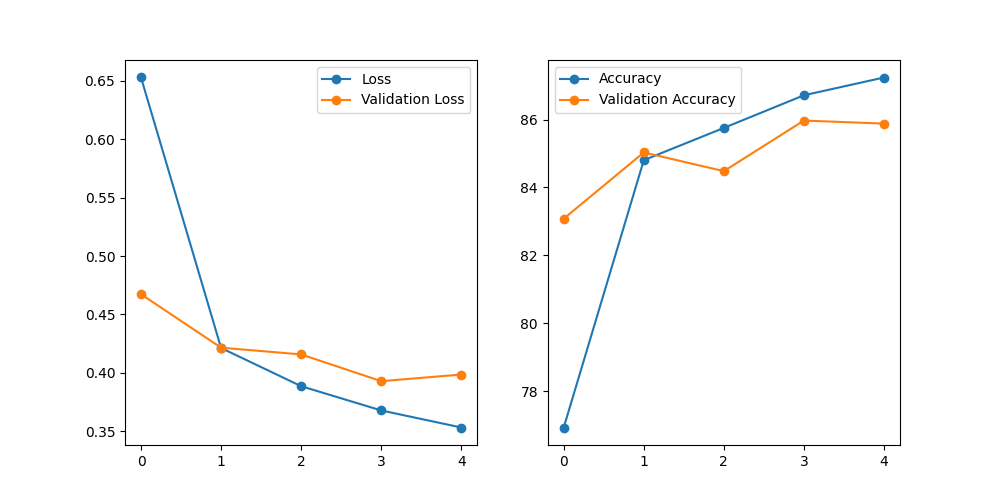
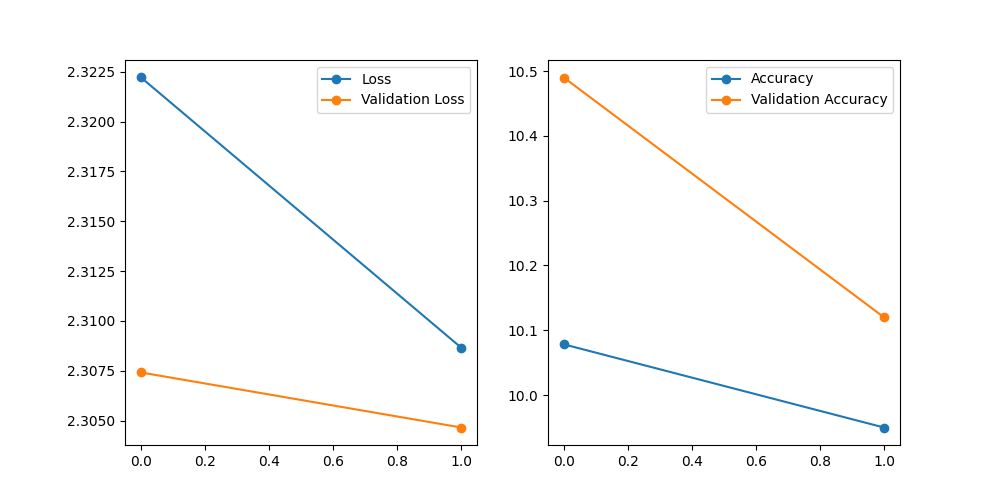
Data Selector
Change dataset [MNIST, FashionMNIST, CIFAR10]

diff --git a/templates/form.html b/templates/form.html
@@ -7,10 +7,17 @@
 <body>
 <form method="post">
     <h4>Model Name:
-        <input type="string" name="model_name" value="fashionMNIST"/><br>
+        <input type="string" name="model_name" value="FastAPI_Torch"/><br>
+    </h4>
+    <h4>DataSet:
+        <select name="dataset_name" id="Data">
+            <option value="MNIST">MNIST</option>
+            <option value="FashionMNIST">FashionMNIST</option>
+            <option value="CIFAR10">CIFAR10</option>
+        </select><br>
     </h4>
     <h4>Optimizer:
-        <select name="Optimizer" id="cars">
+        <select name="Optimizer" id="Opt">
             <option value="Adam">Adam</option>
             <option value="SGD">SGD</option>
         </select><br>

diff --git a/train_utils.py b/train_utils.py
@@ -30,7 +30,12 @@ def train(epoch, n_epochs, model, dl, loss_func, device, optimizer, len_ds: int)
 
     tq_batch = tqdm(dl, total=len(dl))
     for images, labels in tq_batch:
-        images = images.reshape(images.shape[0], 1, 28, 28).to(device)
+        if len(images.shape) == 3:  # (None, x, x)
+            images = images.reshape(
+                images.shape[0], 1, images.shape[1], images.shape[2]
+            ).to(device)
+        else:  # (None, 3, x, x)
+            images = images.to(device)
         labels = labels.to(device)
 
         optimizer.zero_grad()
@@ -45,8 +50,8 @@ def train(epoch, n_epochs, model, dl, loss_func, device, optimizer, len_ds: int)
         epoch_loss += loss.item()
         epochs_acc += torch.sum(preds == labels).item()
 
-        tq_batch.set_description(f'Epoch [{epoch + 1}/{n_epochs}]')
-        tq_batch.set_postfix_str('loss = {:.4f}'.format(loss.item()))
+        tq_batch.set_description(f"Epoch [{epoch + 1}/{n_epochs}]")
+        tq_batch.set_postfix_str("loss = {:.4f}".format(loss.item()))
 
     epoch_loss = epoch_loss / len(dl)
     epochs_acc = epochs_acc / len_ds
@@ -72,7 +77,12 @@ def evaluate(model, dl, loss_func, device, len_val_ds: int):
     epochs_acc = 0
     tq_batch = tqdm(dl, total=len(dl), leave=False)
     for images, labels in tq_batch:
-        images = images.reshape(images.shape[0], 1, 28, 28).to(device)
+        if len(images.shape) == 3:  # (None, x, x)
+            images = images.reshape(
+                images.shape[0], 1, images.shape[1], images.shape[2]
+            ).to(device)
+        else:  # (None, 3, x, x)
+            images = images.to(device)
         labels = labels.to(device)
 
         outputs = model(images)
@@ -81,7 +91,7 @@ def evaluate(model, dl, loss_func, device, len_val_ds: int):
 
         epoch_loss += loss.item()
         epochs_acc += torch.sum(preds == labels).item()
-        tq_batch.set_description(f'Evaluate Model')
+        tq_batch.set_description(f"Evaluate Model")
 
     epoch_loss = epoch_loss / len(dl)
     epochs_acc = epochs_acc / len_val_ds
@@ -89,7 +99,17 @@ def evaluate(model, dl, loss_func, device, len_val_ds: int):
     return epoch_loss, epochs_acc
 
 
-def fit(n_epochs, model, train_dataloader, ds, valid_dataloader, val_ds, loss_func, device, optimizer):
+def fit(
+    n_epochs,
+    model,
+    train_dataloader,
+    ds,
+    valid_dataloader,
+    val_ds,
+    loss_func,
+    device,
+    optimizer,
+):
     """fit model (train and evaluate)
     Args:
         n_epochs (int): for info
@@ -103,26 +123,45 @@ def fit(n_epochs, model, train_dataloader, ds, valid_dataloader, val_ds, loss_fu
         history (list of dict): for visualize model results
     """
     from tqdm import tqdm
+
     history = []
-    val_loss_ref = float('inf')
+    val_loss_ref = float("inf")
     patient = 5
     for epoch in range(n_epochs):
         torch.cuda.empty_cache()
-        loss, acc = train(epoch, n_epochs, model, train_dataloader, loss_func, device, optimizer, len_ds=len(ds))
+        loss, acc = train(
+            epoch,
+            n_epochs,
+            model,
+            train_dataloader,
+            loss_func,
+            device,
+            optimizer,
+            len_ds=len(ds),
+        )
 
         torch.cuda.empty_cache()
-        val_loss, val_acc = evaluate(model, valid_dataloader, loss_func, device, len_val_ds=len(val_ds))
+        val_loss, val_acc = evaluate(
+            model, valid_dataloader, loss_func, device, len_val_ds=len(val_ds)
+        )
 
-        history.append({'loss': loss, 'acc': acc, 'val_loss': val_loss, 'val_acc': val_acc})
+        history.append(
+            {"loss": loss, "acc": acc, "val_loss": val_loss, "val_acc": val_acc}
+        )
 
         statement = "[loss]={:.4f} - [acc]={:.4f} - \
-[val_loss]={:.4f} - [val_acc]={:.4f}".format(loss, acc, val_loss, val_acc, )
+[val_loss]={:.4f} - [val_acc]={:.4f}".format(
+            loss,
+            acc,
+            val_loss,
+            val_acc,
+        )
         print(statement)
         # ------------------------- Checkpoint -------------------------
         if val_loss < val_loss_ref:
             patient = 5
             val_loss_ref = val_loss
-            model_path = './data/fashionMNIST_checkpoint.pth'
+            model_path = "./data/fashionMNIST_checkpoint.pth"
             torch.save(model.state_dict(), model_path)
             print(f"[INFO] Saving model dict, Epoch={epoch + 1}")
         else:
@@ -137,15 +176,20 @@ def fit(n_epochs, model, train_dataloader, ds, valid_dataloader, val_ds, loss_fu
 if __name__ == "__main__":
     # ----------------------------------- Prepare Data -----------------------------------
     # transform to normalize the data
-    transform = transforms.Compose([transforms.ToTensor(),
-                                    transforms.Normalize((0.5,), (0.5,))])
+    transform = transforms.Compose(
+        [transforms.ToTensor(), transforms.Normalize((0.5,), (0.5,))]
+    )
 
     # Download and load the training data
-    dataset = datasets.FashionMNIST('./data', download=True, train=True, transform=transform)
+    dataset = datasets.FashionMNIST(
+        "./data", download=True, train=True, transform=transform
+    )
     train_dl = DataLoader(dataset, batch_size=128, shuffle=True)
 
     # Download and load the test data
-    val_dataset = datasets.FashionMNIST('./data', download=True, train=False, transform=transform)
+    val_dataset = datasets.FashionMNIST(
+        "./data", download=True, train=False, transform=transform
+    )
     val_dl = DataLoader(val_dataset, batch_size=128, shuffle=True)
     # ----------------------------------- Train Model -----------------------------------
     accelerator = get_device()
@@ -157,5 +201,14 @@ if __name__ == "__main__":
     optimizer = torch.optim.Adam(model.parameters(), lr=learning_rate)
     loss_func = nn.CrossEntropyLoss()
 
-    fit(1, model, train_dl, dataset, val_dl, val_dataset, loss_func, device=accelerator, optimizer=optimizer)
-
+    fit(
+        1,
+        model,
+        train_dl,
+        dataset,
+        val_dl,
+        val_dataset,
+        loss_func,
+        device=accelerator,
+        optimizer=optimizer,
+    )

diff --git a/model_utils.py b/model_utils.py
@@ -6,41 +6,62 @@ from torchsummary import summary
 
 def conv_block(in_channels, out_channels):
     m = nn.Sequential(
-        nn.Conv2d(in_channels=in_channels, out_channels=out_channels, kernel_size=3, stride=1, padding=1),
+        nn.Conv2d(
+            in_channels=in_channels,
+            out_channels=out_channels,
+            kernel_size=3,
+            stride=1,
+            padding=1,
+        ),
         nn.BatchNorm2d(out_channels),
-        nn.Conv2d(in_channels=out_channels, out_channels=out_channels, kernel_size=3, stride=2, padding=1),
+        nn.Conv2d(
+            in_channels=out_channels,
+            out_channels=out_channels,
+            kernel_size=3,
+            stride=2,
+            padding=1,
+        ),
         nn.ReLU(),
     )
     return m
 
 
 class CNN(nn.Module):
-
-    def __init__(self, in_channels: int = 1, hidden_size: int = 32, out_classes: int = 10):
+    def __init__(
+        self, in_channels: int = 1, hidden_size: int = 32, out_classes: int = 10
+    ):
         super(CNN, self).__init__()
-        self.hidden_size = hidden_size
+        self.out_classes = out_classes
         # in: (None, in_channels, 28, 28)
-        self.conv_layer1 = conv_block(in_channels, hidden_size)       # (None, hidden_size, 14, 14)
-        self.conv_layer2 = conv_block(hidden_size, hidden_size * 2)   # (None, hidden_size * 2, 7, 7)
+        self.conv_layer1 = conv_block(
+            in_channels, hidden_size
+        )  # (None, hidden_size, 14, 14)
+        self.conv_layer2 = conv_block(
+            hidden_size, hidden_size * 2
+        )  # (None, hidden_size * 2, 7, 7)
         self.conv_layer3 = nn.Sequential(
-            nn.Conv2d(in_channels=hidden_size * 2, out_channels=hidden_size * 2, kernel_size=3, stride=1, padding=1),
+            nn.Conv2d(
+                in_channels=hidden_size * 2,
+                out_channels=hidden_size * 2,
+                kernel_size=3,
+                stride=1,
+                padding=1,
+            ),
             nn.BatchNorm2d(hidden_size * 2),
             nn.ReLU(),
-            nn.MaxPool2d(2)
-        )           # (None, hidden_size * 2, 3, 3)
-        self.fc1 = nn.Linear(hidden_size * 2 * 3 * 3, 128)
+            nn.MaxPool2d(2),
+        )  # (None, hidden_size * 2, 3, 3)
+
         self.drop = nn.Dropout(0.25)
-        self.fc2 = nn.Linear(128, out_classes)
 
     def forward(self, x):
         x = self.conv_layer1(x)
         x = self.conv_layer2(x)
         x = self.conv_layer3(x)
-        x = x.view(-1, self.hidden_size * 2 * 3 * 3)
-        x = self.fc1(x)
+        x = x.view(-1, x.shape[1] * x.shape[2] * x.shape[3])
+        x = nn.Linear(x.shape[1], 128)(x)
         x = self.drop(x)
-        x = self.fc2(x)
-
+        x = nn.Linear(128, self.out_classes)(x)
         return F.log_softmax(x, dim=1)
 
 

diff --git a/app.py b/app.py
@@ -45,43 +45,48 @@ def form_post(request: Request):
 def form_post(
     request: Request,
     model_name: str = Form(...),
+    dataset_name: str = Form(...),
     Optimizer: str = Form(...),
     learning_rate: float = Form(...),
     batch_size: int = Form(...),
     epoch: int = Form(...),
     initial_hidden_size: int = Form(...),
 ):
-
+    out_ch = 1
+    if dataset_name == "CIFAR10" or dataset_name == "CIFAR100":
+        out_ch = 3
     # transform to normalize the data
     hp = HyperParam()
     compose = []
-    for key, value in hp.transform.items():
+    for key, value in eval(f"hp.transform_{out_ch}D").items():
         if type(value) == bool:
             if value is True:
                 compose.append(eval("transforms.{}()".format(key)))
         elif key == "Normalize":
             compose.append(
                 eval(
-                    f"transforms.{key}(hp.transform['{key}']['mean'], hp.transform['{key}']['std'])"
+                    f"transforms.{key}(hp.transform_{out_ch}D['{key}']['mean'], hp.transform_{out_ch}D['{key}']['std'])"
                 )
             )
         else:
-            compose.append(eval(f"transforms.{key}(hp.transform['{key}'])"))
+            compose.append(eval(f"transforms.{key}(hp.transform_{out_ch}D['{key}'])"))
 
     transform = transforms.Compose(compose)
     # Download and load the training data
-    dataset = datasets.FashionMNIST(
-        "./data", download=True, train=True, transform=transform
+    dataset = eval(
+        f"datasets.{dataset_name}('./data', download=True, train=True, transform=transform)"
     )
     train_dl = DataLoader(dataset, batch_size=batch_size, shuffle=True)
     # Download and load the test data
-    val_dataset = datasets.FashionMNIST(
-        "./data", download=True, train=False, transform=transform
+    val_dataset = eval(
+        f"datasets.{dataset_name}('./data', download=True, train=False, transform=transform)"
     )
     val_dl = DataLoader(val_dataset, batch_size=batch_size, shuffle=True)
 
     model = CNN(
-        in_channels=1, hidden_size=initial_hidden_size, out_classes=len(hp.label_names)
+        in_channels=dataset[0][0].shape[0],
+        hidden_size=initial_hidden_size,
+        out_classes=len(dataset.classes),
     ).to(get_device())
     criterion = eval("torch.nn.{}()".format(hp.criterion["name"]))
     optimizer = eval(

diff --git a/commands.py b/commands.py
@@ -2,20 +2,29 @@
 from pydantic import BaseModel
 from torchvision import datasets
 
-dataset = datasets.FashionMNIST('./data', download=True, train=False)
+dataset = datasets.FashionMNIST("./data", download=True, train=False)
 
 
 class HyperParam(BaseModel):
-	model_name: str = "fashionMNIST"
-	criterion: dict = {"name": "CrossEntropyLoss"}
-	optimizer: dict = {"name": "Adam", "lr": 0.001}
-	batch_size: int = 64
-	n_epoch: int = 1
-	n_labels: int = len(dataset.classes)
-	transform: dict = {"ToTensor": True, "Resize": (28, 28), "Normalize": {"mean": (0.5,), "std": (0.5,)}}
-	label_names: list = dataset.classes
-	initial_hidden_size: int = 32
+    model_name: str = "fashionMNIST"
+    criterion: dict = {"name": "CrossEntropyLoss"}
+    optimizer: dict = {"name": "Adam", "lr": 0.001}
+    batch_size: int = 64
+    n_epoch: int = 1
+    n_labels: int = len(dataset.classes)
+    transform_1D: dict = {
+        "ToTensor": True,
+        "Resize": (28, 28),
+        "Normalize": {"mean": (0.5,), "std": (0.5,)},
+    }
+    transform_3D: dict = {
+        "ToTensor": True,
+        "Resize": (32, 32),
+        "Normalize": {"mean": (0.5, 0.5, 0.5), "std": (0.5, 0.5, 0.5)},
+    }
+    label_names: list = dataset.classes
+    initial_hidden_size: int = 32
 
 
 if __name__ == "__main__":
-	print(HyperParam())
+    print(HyperParam())
